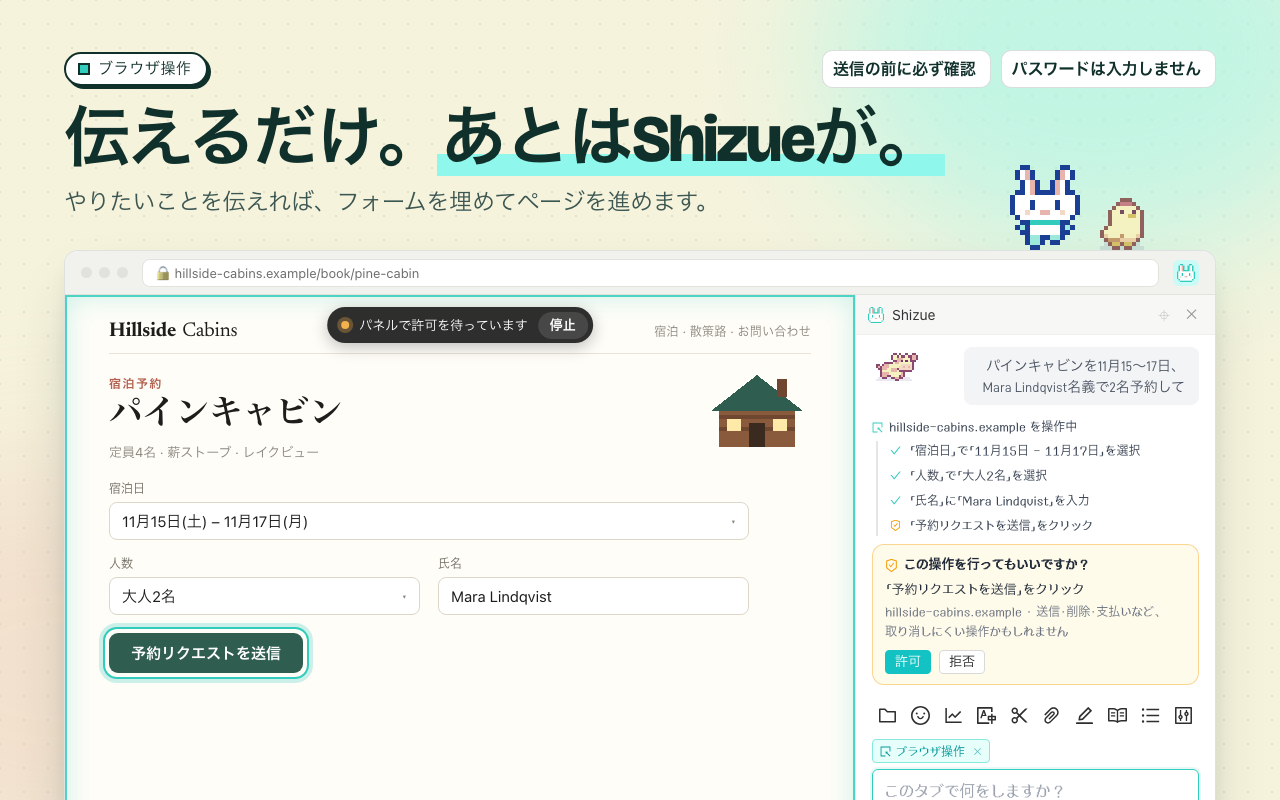
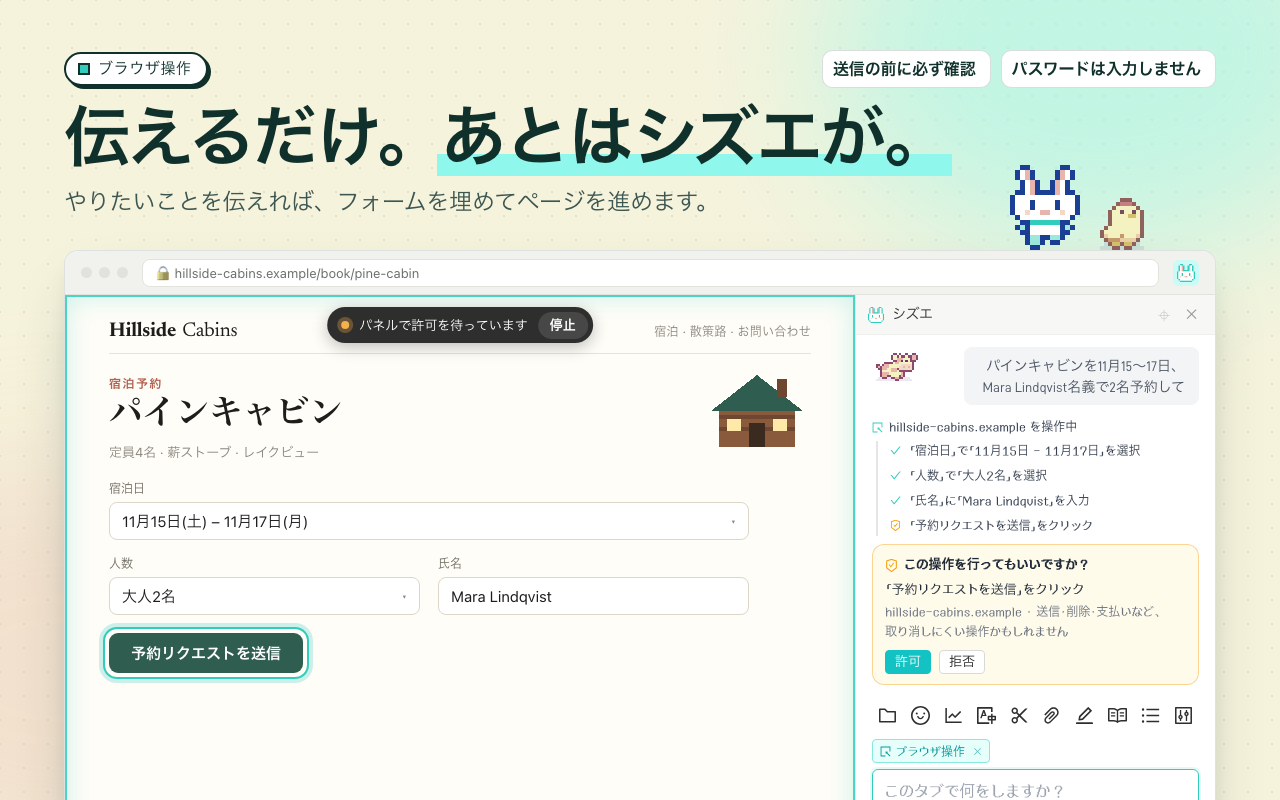
feat: 한국어는 시즈에, 일본어는 シズエ로 부르기
- 스토어 이미지 제목, shizue.net, 스토어 설명문에서 Shizue를 한국어는
  시즈에, 일본어는 シズエ로 썼습니다. 설명문 첫 줄에만 (Shizue)를 붙였습니다.
- 일본어 UI에 섞여 있던 しずえ·シズエ·Shizue를 シズエ로 맞췄습니다. 확장
  이름이 바뀌어 일본어 스토어 이름도 바뀝니다. ChatGPT 로그인 안내는
  로마자 그대로 둡니다.
- 스토어 이미지의 패널 머리글과 우클릭 메뉴가 실제 확장처럼
  overlayMenu.shizue 문구를 써서, 한국어·일본어 이미지에 시즈에·シズエ가
  보입니다.

Changed region(s): [[0.4688, 0.125, 0.75, 0.2188], [0.6875, 0.375, 0.7188, 0.4062]]

diff --git a/store/src/i18n/ja.js b/store/src/i18n/ja.js
@@ -15,7 +15,7 @@ window.STORE_I18N = {
   "nf.capTr": "雨がやんだら市場に行ってみよう。",
   "nf.origTrack": "韓国語 [CC]",
   "nf.title": "ナイトマーケット<span>第3話 雨上がり</span>",
-  "bc.headline": "伝えるだけ。<span class=\"mark\">あとはShizueが。</span>",
+  "bc.headline": "伝えるだけ。<span class=\"mark\">あとはシズエが。</span>",
   "bc.sub": "やりたいことを伝えれば、フォームを埋めてページを進めます。",
   "bc.chipAsk": "送信の前に必ず確認",
   "bc.chipPasswords": "パスワードは入力しません",
@@ -46,7 +46,7 @@ window.STORE_I18N = {
   "oct.p3": "この発見は、夢を見る能力が、まったく異なる構造の脳で複数回進化した可能性を示唆しています。",
   "oct.p2short": "研究者たちは、約1時間ごとに短い「アクティブ睡眠」を記録しました。",
   "cm.eyebrow": "右クリックメニュー",
-  "cm.headline": "右クリックして、<span class=\"mark\">Shizueに聞く。</span>",
+  "cm.headline": "右クリックして、<span class=\"mark\">シズエに聞く。</span>",
   "cm.sub": "画像の翻訳や説明、テキストの抽出、ページの要約まで。",
   "cm.openImage": "新しいタブで画像を開く",
   "cm.saveImage": "名前を付けて画像を保存…",

diff --git a/store/src/i18n/ko.js b/store/src/i18n/ko.js
@@ -15,7 +15,7 @@ window.STORE_I18N = {
   "nf.capTr": "비가 그치면 시장에 가 보자.",
   "nf.origTrack": "영어 [CC]",
   "nf.title": "야시장<span>3화 비 그친 뒤</span>",
-  "bc.headline": "말만 하세요. <span class=\"mark\">Shizue가 합니다.</span>",
+  "bc.headline": "말만 하세요. <span class=\"mark\">시즈에가 합니다.</span>",
   "bc.sub": "할 일을 말하면 양식을 채우고 페이지를 넘나들며 누릅니다.",
   "bc.chipAsk": "보내기 전에 먼저 물어봐요",
   "bc.chipPasswords": "비밀번호는 입력하지 않아요",
@@ -46,7 +46,7 @@ window.STORE_I18N = {
   "oct.p3": "이 발견은 꿈이 전혀 다른 구조의 뇌에서 한 번 이상 진화했을 가능성을 시사합니다.",
   "oct.p2short": "연구진은 약 한 시간마다 짧은 ‘활동성 수면’을 기록했습니다.",
   "cm.eyebrow": "우클릭 메뉴",
-  "cm.headline": "우클릭하고 <span class=\"mark\">Shizue에게.</span>",
+  "cm.headline": "우클릭하고 <span class=\"mark\">시즈에한테.</span>",
   "cm.sub": "이미지를 번역하고, 설명하고, 글자를 뽑아내고, 페이지를 요약합니다.",
   "cm.openImage": "새 탭에서 이미지 열기",
   "cm.saveImage": "다른 이름으로 이미지 저장...",

diff --git a/store/src/screenshot-5-context-menu.html b/store/src/screenshot-5-context-menu.html
@@ -88,7 +88,7 @@
           <div data-t="cm.saveImage">Save image as…</div>
           <div data-t="cm.copyImage">Copy image</div>
           <hr>
-          <div class="hl"><img src="../../src/public/icon.svg">Shizue<span class="arr">▸</span></div>
+          <div class="hl"><img src="../../src/public/icon.svg"><span data-ui="overlayMenu.shizue">Shizue</span><span class="arr">▸</span></div>
         </div>
         <div class="cm" style="min-width:236px;margin:48px 0 0 -4px">
           <div data-ui="overlayMenu.translateImage">Translate image</div>
@@ -101,7 +101,7 @@
       </div>
 
       <div class="panel">
-        <div class="ph"><img src="../../src/public/icon.svg">Shizue<span class="x">⌖ ✕</span></div>
+        <div class="ph"><img src="../../src/public/icon.svg"><span data-ui="overlayMenu.shizue">Shizue</span><span class="x">⌖ ✕</span></div>
         <div class="msgs">
           <div class="human">
             <div class="sprite sp-chicken" style="--s:2.5;margin:2px 0 0 4px"></div>

diff --git a/src/lib/prompts.ts b/src/lib/prompts.ts
@@ -13,7 +13,7 @@ export const getInitialSystemMessage = (
   customInstructions?: string,
   rememberedFacts: string[] = []
 ) => {
-  const systemMessage = `You are Shizue (시즈에 in Korean, しずえ in Japanese), an AI assistant who solves a wide range of problems.
+  const systemMessage = `You are Shizue (시즈에 in Korean, シズエ in Japanese), an AI assistant who solves a wide range of problems.
 
 1) Respond in polite, honorifics. Keep the tone warm yet concise.
 2) Avoid heart emoticons, and overly cute expressions.

diff --git a/store/src/screenshot-2-browser-control.html b/store/src/screenshot-2-browser-control.html
@@ -122,7 +122,7 @@
       </div>
 
       <div class="panel">
-        <div class="ph"><img src="../../src/public/icon.svg">Shizue<span class="x">⌖ ✕</span></div>
+        <div class="ph"><img src="../../src/public/icon.svg"><span data-ui="overlayMenu.shizue">Shizue</span><span class="x">⌖ ✕</span></div>
         <div class="msgs">
           <div class="human">
             <div class="sprite sp-babycow-walk" style="--s:2.1;margin:2px 0 0 4px"></div>

diff --git a/store/src/screenshot-3-hero.html b/store/src/screenshot-3-hero.html
@@ -68,7 +68,7 @@
       </div>
 
       <div class="panel">
-        <div class="ph"><img src="../../src/public/icon.svg">Shizue<span class="x">⌖ ✕</span></div>
+        <div class="ph"><img src="../../src/public/icon.svg"><span data-ui="overlayMenu.shizue">Shizue</span><span class="x">⌖ ✕</span></div>
         <div class="msgs">
           <div class="human">
             <div class="sprite sp-babycow-walk" style="--s:2.1;margin:2px 0 0 4px"></div>
